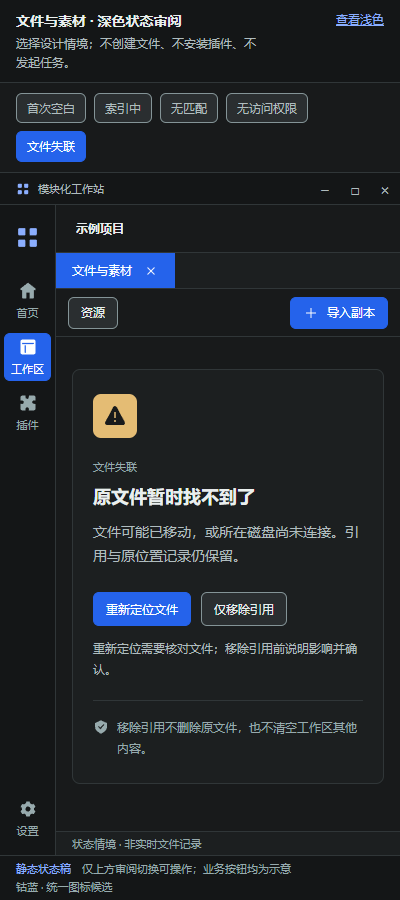
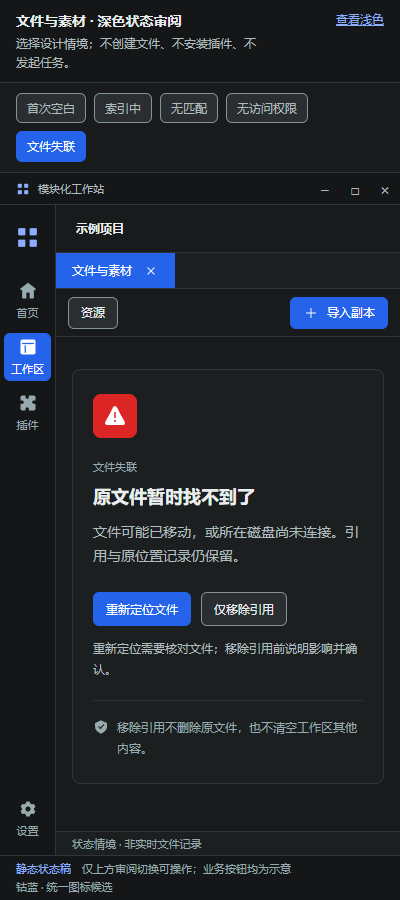
design: use red filled warning indicators per owner feedback

Changed region(s): [[0.21, 0.4356, 0.36, 0.4978]]

diff --git a/docs/design/d2-theme-review.html b/docs/design/d2-theme-review.html
@@ -2,6 +2,7 @@
  *{box-sizing:border-box}body{margin:0;padding:24px;background:#f5f6f6;color:#1e2b34;font:14px/1.6 "Segoe UI","Microsoft YaHei UI",sans-serif}main{max-width:1920px;margin:auto}h1{font-size:24px;margin:0 0 8px}p{color:#526970;margin:0 0 20px}.page-choice{position:absolute;opacity:0;width:1px;height:1px}label{display:inline-block;padding:8px 16px;margin:0 8px 12px 0;border:1px solid #63767e;border-radius:6px;cursor:pointer;background:white}input:focus-visible+label{outline:2px solid #2563eb;outline-offset:3px}input:checked+label{background:#e6eeff;border-color:#2563eb;color:#1d4ed8}.page{display:none}h2{font-size:18px;margin:16px 0}.compare{display:grid;grid-template-columns:1fr 1fr;gap:20px}figure{min-width:0;margin:0}figcaption{font-weight:600;margin-bottom:8px}img{display:block;width:100%;height:auto;border:1px solid #63767e;border-radius:6px}.note{margin-top:20px;font-size:12px}#page-home:checked~.pages .page-home{display:block}#page-assets:checked~.pages .page-assets{display:block}#page-plugins-empty:checked~.pages .page-plugins-empty{display:block}#page-plugins-permissions:checked~.pages .page-plugins-permissions{display:block}@media(max-width:900px){body{padding:16px}.compare{grid-template-columns:1fr}label{padding:6px 10px}}
  </style><style data-solid-visuals>
 /* Owner feedback: filled selections, face-led icons with cut-out detail. */
+:root{--status-alert-fill:#dc2626;--status-alert-foreground:#ffffff}
 .nav-item.active,.tree-item.active,.category.active,.view-toggle span:first-child,.tab,.filter-tabs .selected,
 .state-controls input:checked+label,.page-choice:checked+label{
  background:var(--color-accent-solid,#2563eb);color:var(--color-on-accent,#fff);border-color:var(--color-accent-solid,#2563eb)
@@ -13,7 +14,6 @@
 .asset.selected{border-color:var(--color-accent-solid)}.asset.selected .asset-meta{background:var(--color-accent-solid);color:var(--color-on-accent)}.asset.selected .asset-name,.asset.selected .asset-kind{color:inherit}
 .start-icon,.module-icon,.plugin-logo,.state-emblem{background:var(--color-selected);color:var(--color-accent)}
 .state-emblem{background:var(--color-accent-solid);color:var(--color-on-accent)}
-.state-card.warning .state-emblem{background:var(--color-warning);color:var(--color-bg)}
-.state-card.error .state-emblem{background:var(--color-error);color:var(--color-bg)}
+.state-card.warning .state-emblem,.state-card.error .state-emblem{background:var(--status-alert-fill);color:var(--status-alert-foreground)}
 </style>
 </head><body><main><h1>钴蓝 · 深浅主题对照</h1><p>选择页面并比较两种主题。点击图片可打开完整静态稿；页面中的业务操作尚未实现。</p><input class="page-choice" type="radio" name="page" id="page-home" checked><label for="page-home">首页</label><input class="page-choice" type="radio" name="page" id="page-assets" ><label for="page-assets">文件与素材</label><input class="page-choice" type="radio" name="page" id="page-plugins-empty" ><label for="page-plugins-empty">插件中心</label><input class="page-choice" type="radio" name="page" id="page-plugins-permissions" ><label for="page-plugins-permissions">安装前权限</label><div class="pages"><section class="page page-home"><h2>首页</h2><div class="compare"><figure class="dark"><figcaption>深色 · 1440 × 900</figcaption><a href="d2-home-dark.html"><img src="previews/d2-home-dark-1440.png" alt="首页深色静态设计；点击打开源稿"></a></figure><figure class="light"><figcaption>浅色 · 1440 × 900</figcaption><a href="d2-home-light.html"><img src="previews/d2-home-light-1440.png" alt="首页浅色静态设计；点击打开源稿"></a></figure></div></section><section class="page page-assets"><h2>文件与素材</h2><div class="compare"><figure class="dark"><figcaption>深色 · 1440 × 900</figcaption><a href="d2-assets-dark.html"><img src="previews/d2-assets-dark-1440.png" alt="文件与素材深色静态设计；点击打开源稿"></a></figure><figure class="light"><figcaption>浅色 · 1440 × 900</figcaption><a href="d2-assets-light.html"><img src="previews/d2-assets-light-1440.png" alt="文件与素材浅色静态设计；点击打开源稿"></a></figure></div></section><section class="page page-plugins-empty"><h2>插件中心</h2><div class="compare"><figure class="dark"><figcaption>深色 · 1440 × 900</figcaption><a href="d2-plugins-empty-dark.html"><img src="previews/d2-plugins-empty-dark-1440.png" alt="插件中心深色静态设计；点击打开源稿"></a></figure><figure class="light"><figcaption>浅色 · 1440 × 900</figcaption><a href="d2-plugins-empty-light.html"><img src="previews/d2-plugins-empty-light-1440.png" alt="插件中心浅色静态设计；点击打开源稿"></a></figure></div></section><section class="page page-plugins-permissions"><h2>安装前权限</h2><div class="compare"><figure class="dark"><figcaption>深色 · 1440 × 900</figcaption><a href="d2-plugins-permissions-dark.html"><img src="previews/d2-plugins-permissions-dark-1440.png" alt="安装前权限深色静态设计；点击打开源稿"></a></figure><figure class="light"><figcaption>浅色 · 1440 × 900</figcaption><a href="d2-plugins-permissions-light.html"><img src="previews/d2-plugins-permissions-light-1440.png" alt="安装前权限浅色静态设计；点击打开源稿"></a></figure></div></section></div><p class="note">当前用于视觉审阅；窗口示意、文件与插件示例均不代表真实业务状态。浅色稿由 D1 配色和对应深色稿生成；应用程序尚未换装。</p></main></body></html>

diff --git a/docs/design/d2-states-plugins-dark.html b/docs/design/d2-states-plugins-dark.html
@@ -16,7 +16,7 @@
       --color-accent-solid:#2563eb; --color-on-accent:#ffffff;
       --color-selected:#1b2842; --color-selected-border:#8baeff;
       --color-hover:#2d3436; --color-pressed:#374246; --color-focus:#8baeff;
-      --color-success:#89c9b0; --color-warning:#e4bc74; --color-error:#f2a5a5; --color-info:#9cc7eb;
+      --color-success:#89c9b0; --color-warning:#f2a5a5; --color-error:#f2a5a5; --color-info:#9cc7eb;
     }
     *{box-sizing:border-box} html,body{margin:0;min-width:320px;background:var(--color-bg);color:var(--color-text);font-size:14px;line-height:1.57}
     svg.icon{display:block;width:20px;height:20px;fill:none;stroke:currentColor;stroke-width:1.5;stroke-linecap:round;stroke-linejoin:round;flex:none}
@@ -71,6 +71,7 @@ body:has(#state-failed:checked) .s-failed{display:block}
 body:has(#state-incompatible:checked) .s-incompatible{display:block}</style>
 <style data-solid-visuals>
 /* Owner feedback: filled selections, face-led icons with cut-out detail. */
+:root{--status-alert-fill:#dc2626;--status-alert-foreground:#ffffff}
 .nav-item.active,.tree-item.active,.category.active,.view-toggle span:first-child,.tab,.filter-tabs .selected,
 .state-controls input:checked+label,.page-choice:checked+label{
  background:var(--color-accent-solid,#2563eb);color:var(--color-on-accent,#fff);border-color:var(--color-accent-solid,#2563eb)
@@ -82,8 +83,7 @@ body:has(#state-incompatible:checked) .s-incompatible{display:block}</style>
 .asset.selected{border-color:var(--color-accent-solid)}.asset.selected .asset-meta{background:var(--color-accent-solid);color:var(--color-on-accent)}.asset.selected .asset-name,.asset.selected .asset-kind{color:inherit}
 .start-icon,.module-icon,.plugin-logo,.state-emblem{background:var(--color-selected);color:var(--color-accent)}
 .state-emblem{background:var(--color-accent-solid);color:var(--color-on-accent)}
-.state-card.warning .state-emblem{background:var(--color-warning);color:var(--color-bg)}
-.state-card.error .state-emblem{background:var(--color-error);color:var(--color-bg)}
+.state-card.warning .state-emblem,.state-card.error .state-emblem{background:var(--status-alert-fill);color:var(--status-alert-foreground)}
 </style>
 </head>
 <body><header class="review-head"><div><h1>插件中心 · 深色状态审阅</h1><p>选择设计情境；不创建文件、不安装插件、不发起任务。</p></div><a href="d2-states-plugins-light.html">查看浅色</a></header><div class="state-controls" role="group" aria-label="设计情境"><input type="radio" name="state" id="state-empty" checked><label for="state-empty">首次空白</label><input type="radio" name="state" id="state-no-match" ><label for="state-no-match">无匹配</label><input type="radio" name="state" id="state-loading" ><label for="state-loading">检查中</label><input type="radio" name="state" id="state-cancelling" ><label for="state-cancelling">等待取消确认</label><input type="radio" name="state" id="state-failed" ><label for="state-failed">安装失败</label><input type="radio" name="state" id="state-incompatible" ><label for="state-incompatible">版本不兼容</label></div>

diff --git a/docs/design/d2-states-plugins-light.html b/docs/design/d2-states-plugins-light.html
@@ -17,7 +17,7 @@
       --color-accent-solid:#2563eb; --color-on-accent:#ffffff;
       --color-selected:#e6eeff; --color-selected-border:#2563eb;
       --color-hover:#e7edee; --color-pressed:#dce6e8; --color-focus:#2563eb;
-      --color-success:#287265; --color-warning:#835300; --color-error:#b23535; --color-info:#245f95;
+      --color-success:#287265; --color-warning:#b23535; --color-error:#b23535; --color-info:#245f95;
     }
     *{box-sizing:border-box} html,body{margin:0;min-width:320px;background:var(--color-bg);color:var(--color-text);font-size:14px;line-height:1.57}
     svg.icon{display:block;width:20px;height:20px;fill:none;stroke:currentColor;stroke-width:1.5;stroke-linecap:round;stroke-linejoin:round;flex:none}
@@ -72,6 +72,7 @@ body:has(#state-failed:checked) .s-failed{display:block}
 body:has(#state-incompatible:checked) .s-incompatible{display:block}</style>
 <style data-solid-visuals>
 /* Owner feedback: filled selections, face-led icons with cut-out detail. */
+:root{--status-alert-fill:#dc2626;--status-alert-foreground:#ffffff}
 .nav-item.active,.tree-item.active,.category.active,.view-toggle span:first-child,.tab,.filter-tabs .selected,
 .state-controls input:checked+label,.page-choice:checked+label{
  background:var(--color-accent-solid,#2563eb);color:var(--color-on-accent,#fff);border-color:var(--color-accent-solid,#2563eb)
@@ -83,8 +84,7 @@ body:has(#state-incompatible:checked) .s-incompatible{display:block}</style>
 .asset.selected{border-color:var(--color-accent-solid)}.asset.selected .asset-meta{background:var(--color-accent-solid);color:var(--color-on-accent)}.asset.selected .asset-name,.asset.selected .asset-kind{color:inherit}
 .start-icon,.module-icon,.plugin-logo,.state-emblem{background:var(--color-selected);color:var(--color-accent)}
 .state-emblem{background:var(--color-accent-solid);color:var(--color-on-accent)}
-.state-card.warning .state-emblem{background:var(--color-warning);color:var(--color-bg)}
-.state-card.error .state-emblem{background:var(--color-error);color:var(--color-bg)}
+.state-card.warning .state-emblem,.state-card.error .state-emblem{background:var(--status-alert-fill);color:var(--status-alert-foreground)}
 </style>
 </head>
 <body><header class="review-head"><div><h1>插件中心 · 浅色状态审阅</h1><p>选择设计情境；不创建文件、不安装插件、不发起任务。</p></div><a href="d2-states-plugins-dark.html">查看深色</a></header><div class="state-controls" role="group" aria-label="设计情境"><input type="radio" name="state" id="state-empty" checked><label for="state-empty">首次空白</label><input type="radio" name="state" id="state-no-match" ><label for="state-no-match">无匹配</label><input type="radio" name="state" id="state-loading" ><label for="state-loading">检查中</label><input type="radio" name="state" id="state-cancelling" ><label for="state-cancelling">等待取消确认</label><input type="radio" name="state" id="state-failed" ><label for="state-failed">安装失败</label><input type="radio" name="state" id="state-incompatible" ><label for="state-incompatible">版本不兼容</label></div>

diff --git a/docs/design/d2-states-assets-dark.html b/docs/design/d2-states-assets-dark.html
@@ -16,7 +16,7 @@
       --color-accent-solid:#2563eb; --color-on-accent:#ffffff;
       --color-selected:#1b2842; --color-selected-border:#8baeff;
       --color-hover:#2d3436; --color-pressed:#374246; --color-focus:#8baeff;
-      --color-success:#89c9b0; --color-warning:#e4bc74; --color-error:#f2a5a5; --color-info:#9cc7eb;
+      --color-success:#89c9b0; --color-warning:#f2a5a5; --color-error:#f2a5a5; --color-info:#9cc7eb;
     }
     *{box-sizing:border-box} html,body{margin:0;min-width:320px;background:var(--color-bg);color:var(--color-text);font-size:14px;line-height:1.57}
     svg.icon{display:block;width:20px;height:20px;fill:none;stroke:currentColor;stroke-width:1.5;stroke-linecap:round;stroke-linejoin:round;flex:none}
@@ -73,6 +73,7 @@ body:has(#state-denied:checked) .s-denied{display:block}
 body:has(#state-missing:checked) .s-missing{display:block}</style>
 <style data-solid-visuals>
 /* Owner feedback: filled selections, face-led icons with cut-out detail. */
+:root{--status-alert-fill:#dc2626;--status-alert-foreground:#ffffff}
 .nav-item.active,.tree-item.active,.category.active,.view-toggle span:first-child,.tab,.filter-tabs .selected,
 .state-controls input:checked+label,.page-choice:checked+label{
  background:var(--color-accent-solid,#2563eb);color:var(--color-on-accent,#fff);border-color:var(--color-accent-solid,#2563eb)
@@ -84,8 +85,7 @@ body:has(#state-missing:checked) .s-missing{display:block}</style>
 .asset.selected{border-color:var(--color-accent-solid)}.asset.selected .asset-meta{background:var(--color-accent-solid);color:var(--color-on-accent)}.asset.selected .asset-name,.asset.selected .asset-kind{color:inherit}
 .start-icon,.module-icon,.plugin-logo,.state-emblem{background:var(--color-selected);color:var(--color-accent)}
 .state-emblem{background:var(--color-accent-solid);color:var(--color-on-accent)}
-.state-card.warning .state-emblem{background:var(--color-warning);color:var(--color-bg)}
-.state-card.error .state-emblem{background:var(--color-error);color:var(--color-bg)}
+.state-card.warning .state-emblem,.state-card.error .state-emblem{background:var(--status-alert-fill);color:var(--status-alert-foreground)}
 </style>
 </head>
 <body><header class="review-head"><div><h1>文件与素材 · 深色状态审阅</h1><p>选择设计情境；不创建文件、不安装插件、不发起任务。</p></div><a href="d2-states-assets-light.html">查看浅色</a></header><div class="state-controls" role="group" aria-label="设计情境"><input type="radio" name="state" id="state-empty" checked><label for="state-empty">首次空白</label><input type="radio" name="state" id="state-loading" ><label for="state-loading">索引中</label><input type="radio" name="state" id="state-no-match" ><label for="state-no-match">无匹配</label><input type="radio" name="state" id="state-denied" ><label for="state-denied">无访问权限</label><input type="radio" name="state" id="state-missing" ><label for="state-missing">文件失联</label></div>

diff --git a/docs/design/d2-states-assets-light.html b/docs/design/d2-states-assets-light.html
@@ -17,7 +17,7 @@
       --color-accent-solid:#2563eb; --color-on-accent:#ffffff;
       --color-selected:#e6eeff; --color-selected-border:#2563eb;
       --color-hover:#e7edee; --color-pressed:#dce6e8; --color-focus:#2563eb;
-      --color-success:#287265; --color-warning:#835300; --color-error:#b23535; --color-info:#245f95;
+      --color-success:#287265; --color-warning:#b23535; --color-error:#b23535; --color-info:#245f95;
     }
     *{box-sizing:border-box} html,body{margin:0;min-width:320px;background:var(--color-bg);color:var(--color-text);font-size:14px;line-height:1.57}
     svg.icon{display:block;width:20px;height:20px;fill:none;stroke:currentColor;stroke-width:1.5;stroke-linecap:round;stroke-linejoin:round;flex:none}
@@ -74,6 +74,7 @@ body:has(#state-denied:checked) .s-denied{display:block}
 body:has(#state-missing:checked) .s-missing{display:block}</style>
 <style data-solid-visuals>
 /* Owner feedback: filled selections, face-led icons with cut-out detail. */
+:root{--status-alert-fill:#dc2626;--status-alert-foreground:#ffffff}
 .nav-item.active,.tree-item.active,.category.active,.view-toggle span:first-child,.tab,.filter-tabs .selected,
 .state-controls input:checked+label,.page-choice:checked+label{
  background:var(--color-accent-solid,#2563eb);color:var(--color-on-accent,#fff);border-color:var(--color-accent-solid,#2563eb)
@@ -85,8 +86,7 @@ body:has(#state-missing:checked) .s-missing{display:block}</style>
 .asset.selected{border-color:var(--color-accent-solid)}.asset.selected .asset-meta{background:var(--color-accent-solid);color:var(--color-on-accent)}.asset.selected .asset-name,.asset.selected .asset-kind{color:inherit}
 .start-icon,.module-icon,.plugin-logo,.state-emblem{background:var(--color-selected);color:var(--color-accent)}
 .state-emblem{background:var(--color-accent-solid);color:var(--color-on-accent)}
-.state-card.warning .state-emblem{background:var(--color-warning);color:var(--color-bg)}
-.state-card.error .state-emblem{background:var(--color-error);color:var(--color-bg)}
+.state-card.warning .state-emblem,.state-card.error .state-emblem{background:var(--status-alert-fill);color:var(--status-alert-foreground)}
 </style>
 </head>
 <body><header class="review-head"><div><h1>文件与素材 · 浅色状态审阅</h1><p>选择设计情境；不创建文件、不安装插件、不发起任务。</p></div><a href="d2-states-assets-dark.html">查看深色</a></header><div class="state-controls" role="group" aria-label="设计情境"><input type="radio" name="state" id="state-empty" checked><label for="state-empty">首次空白</label><input type="radio" name="state" id="state-loading" ><label for="state-loading">索引中</label><input type="radio" name="state" id="state-no-match" ><label for="state-no-match">无匹配</label><input type="radio" name="state" id="state-denied" ><label for="state-denied">无访问权限</label><input type="radio" name="state" id="state-missing" ><label for="state-missing">文件失联</label></div>

diff --git a/docs/design/d2-states-home-dark.html b/docs/design/d2-states-home-dark.html
@@ -17,7 +17,7 @@
       --color-accent-solid: #2563eb; --color-on-accent: #ffffff;
       --color-selected: #1b2842; --color-selected-border: #8baeff;
       --color-hover: #2d3436; --color-pressed: #374246; --color-focus: #8baeff;
-      --color-success: #89c9b0; --color-warning: #e4bc74; --color-error: #f2a5a5; --color-info: #9cc7eb;
+      --color-success: #89c9b0; --color-warning: #f2a5a5; --color-error: #f2a5a5; --color-info: #9cc7eb;
       --space-1: 4px; --space-2: 8px; --space-3: 12px; --space-4: 16px;
       --space-5: 20px; --space-6: 24px; --space-8: 32px;
       --radius-sm: 4px; --radius-md: 6px; --radius-lg: 8px;
@@ -111,6 +111,7 @@ body:has(#state-loading:checked) .s-loading{display:flex}
 body:has(#state-failed:checked) .s-failed{display:flex}</style>
 <style data-solid-visuals>
 /* Owner feedback: filled selections, face-led icons with cut-out detail. */
+:root{--status-alert-fill:#dc2626;--status-alert-foreground:#ffffff}
 .nav-item.active,.tree-item.active,.category.active,.view-toggle span:first-child,.tab,.filter-tabs .selected,
 .state-controls input:checked+label,.page-choice:checked+label{
  background:var(--color-accent-solid,#2563eb);color:var(--color-on-accent,#fff);border-color:var(--color-accent-solid,#2563eb)
@@ -122,8 +123,7 @@ body:has(#state-failed:checked) .s-failed{display:flex}</style>
 .asset.selected{border-color:var(--color-accent-solid)}.asset.selected .asset-meta{background:var(--color-accent-solid);color:var(--color-on-accent)}.asset.selected .asset-name,.asset.selected .asset-kind{color:inherit}
 .start-icon,.module-icon,.plugin-logo,.state-emblem{background:var(--color-selected);color:var(--color-accent)}
 .state-emblem{background:var(--color-accent-solid);color:var(--color-on-accent)}
-.state-card.warning .state-emblem{background:var(--color-warning);color:var(--color-bg)}
-.state-card.error .state-emblem{background:var(--color-error);color:var(--color-bg)}
+.state-card.warning .state-emblem,.state-card.error .state-emblem{background:var(--status-alert-fill);color:var(--status-alert-foreground)}
 </style>
 </head>
 <body><header class="review-head"><div><h1>首页 · 深色状态审阅</h1><p>选择设计情境；不创建文件、不安装插件、不发起任务。</p></div><a href="d2-states-home-light.html">查看浅色</a></header><div class="state-controls" role="group" aria-label="设计情境"><input type="radio" name="state" id="state-empty" checked><label for="state-empty">首次空白</label><input type="radio" name="state" id="state-loading" ><label for="state-loading">打开中</label><input type="radio" name="state" id="state-failed" ><label for="state-failed">打开失败</label></div>

diff --git a/docs/design/d2-states-home-light.html b/docs/design/d2-states-home-light.html
@@ -18,7 +18,7 @@
       --color-accent-solid: #2563eb; --color-on-accent: #ffffff;
       --color-selected: #e6eeff; --color-selected-border: #2563eb;
       --color-hover: #e7edee; --color-pressed: #dce6e8; --color-focus: #2563eb;
-      --color-success: #287265; --color-warning: #835300; --color-error: #b23535; --color-info: #245f95;
+      --color-success: #287265; --color-warning: #b23535; --color-error: #b23535; --color-info: #245f95;
       --space-1: 4px; --space-2: 8px; --space-3: 12px; --space-4: 16px;
       --space-5: 20px; --space-6: 24px; --space-8: 32px;
       --radius-sm: 4px; --radius-md: 6px; --radius-lg: 8px;
@@ -112,6 +112,7 @@ body:has(#state-loading:checked) .s-loading{display:flex}
 body:has(#state-failed:checked) .s-failed{display:flex}</style>
 <style data-solid-visuals>
 /* Owner feedback: filled selections, face-led icons with cut-out detail. */
+:root{--status-alert-fill:#dc2626;--status-alert-foreground:#ffffff}
 .nav-item.active,.tree-item.active,.category.active,.view-toggle span:first-child,.tab,.filter-tabs .selected,
 .state-controls input:checked+label,.page-choice:checked+label{
  background:var(--color-accent-solid,#2563eb);color:var(--color-on-accent,#fff);border-color:var(--color-accent-solid,#2563eb)
@@ -123,8 +124,7 @@ body:has(#state-failed:checked) .s-failed{display:flex}</style>
 .asset.selected{border-color:var(--color-accent-solid)}.asset.selected .asset-meta{background:var(--color-accent-solid);color:var(--color-on-accent)}.asset.selected .asset-name,.asset.selected .asset-kind{color:inherit}
 .start-icon,.module-icon,.plugin-logo,.state-emblem{background:var(--color-selected);color:var(--color-accent)}
 .state-emblem{background:var(--color-accent-solid);color:var(--color-on-accent)}
-.state-card.warning .state-emblem{background:var(--color-warning);color:var(--color-bg)}
-.state-card.error .state-emblem{background:var(--color-error);color:var(--color-bg)}
+.state-card.warning .state-emblem,.state-card.error .state-emblem{background:var(--status-alert-fill);color:var(--status-alert-foreground)}
 </style>
 </head>
 <body><header class="review-head"><div><h1>首页 · 浅色状态审阅</h1><p>选择设计情境；不创建文件、不安装插件、不发起任务。</p></div><a href="d2-states-home-dark.html">查看深色</a></header><div class="state-controls" role="group" aria-label="设计情境"><input type="radio" name="state" id="state-empty" checked><label for="state-empty">首次空白</label><input type="radio" name="state" id="state-loading" ><label for="state-loading">打开中</label><input type="radio" name="state" id="state-failed" ><label for="state-failed">打开失败</label></div>

diff --git a/docs/design/d2-assets-dark.html b/docs/design/d2-assets-dark.html
@@ -16,7 +16,7 @@
       --color-accent-solid:#2563eb; --color-on-accent:#ffffff;
       --color-selected:#1b2842; --color-selected-border:#8baeff;
       --color-hover:#2d3436; --color-pressed:#374246; --color-focus:#8baeff;
-      --color-success:#89c9b0; --color-warning:#e4bc74; --color-error:#f2a5a5; --color-info:#9cc7eb;
+      --color-success:#89c9b0; --color-warning:#f2a5a5; --color-error:#f2a5a5; --color-info:#9cc7eb;
     }
     *{box-sizing:border-box} html,body{margin:0;min-width:320px;background:var(--color-bg);color:var(--color-text);font-size:14px;line-height:1.57}
     svg.icon{display:block;width:20px;height:20px;fill:none;stroke:currentColor;stroke-width:1.5;stroke-linecap:round;stroke-linejoin:round;flex:none}
@@ -50,6 +50,7 @@
   </style>
 <style data-solid-visuals>
 /* Owner feedback: filled selections, face-led icons with cut-out detail. */
+:root{--status-alert-fill:#dc2626;--status-alert-foreground:#ffffff}
 .nav-item.active,.tree-item.active,.category.active,.view-toggle span:first-child,.tab,.filter-tabs .selected,
 .state-controls input:checked+label,.page-choice:checked+label{
  background:var(--color-accent-solid,#2563eb);color:var(--color-on-accent,#fff);border-color:var(--color-accent-solid,#2563eb)
@@ -61,8 +62,7 @@
 .asset.selected{border-color:var(--color-accent-solid)}.asset.selected .asset-meta{background:var(--color-accent-solid);color:var(--color-on-accent)}.asset.selected .asset-name,.asset.selected .asset-kind{color:inherit}
 .start-icon,.module-icon,.plugin-logo,.state-emblem{background:var(--color-selected);color:var(--color-accent)}
 .state-emblem{background:var(--color-accent-solid);color:var(--color-on-accent)}
-.state-card.warning .state-emblem{background:var(--color-warning);color:var(--color-bg)}
-.state-card.error .state-emblem{background:var(--color-error);color:var(--color-bg)}
+.state-card.warning .state-emblem,.state-card.error .state-emblem{background:var(--status-alert-fill);color:var(--status-alert-foreground)}
 </style>
 </head>
 <body>

diff --git a/docs/design/d2-assets-light.html b/docs/design/d2-assets-light.html
@@ -17,7 +17,7 @@
       --color-accent-solid:#2563eb; --color-on-accent:#ffffff;
       --color-selected:#e6eeff; --color-selected-border:#2563eb;
       --color-hover:#e7edee; --color-pressed:#dce6e8; --color-focus:#2563eb;
-      --color-success:#287265; --color-warning:#835300; --color-error:#b23535; --color-info:#245f95;
+      --color-success:#287265; --color-warning:#b23535; --color-error:#b23535; --color-info:#245f95;
     }
     *{box-sizing:border-box} html,body{margin:0;min-width:320px;background:var(--color-bg);color:var(--color-text);font-size:14px;line-height:1.57}
     svg.icon{display:block;width:20px;height:20px;fill:none;stroke:currentColor;stroke-width:1.5;stroke-linecap:round;stroke-linejoin:round;flex:none}
@@ -51,6 +51,7 @@
   </style>
 <style data-solid-visuals>
 /* Owner feedback: filled selections, face-led icons with cut-out detail. */
+:root{--status-alert-fill:#dc2626;--status-alert-foreground:#ffffff}
 .nav-item.active,.tree-item.active,.category.active,.view-toggle span:first-child,.tab,.filter-tabs .selected,
 .state-controls input:checked+label,.page-choice:checked+label{
  background:var(--color-accent-solid,#2563eb);color:var(--color-on-accent,#fff);border-color:var(--color-accent-solid,#2563eb)
@@ -62,8 +63,7 @@
 .asset.selected{border-color:var(--color-accent-solid)}.asset.selected .asset-meta{background:var(--color-accent-solid);color:var(--color-on-accent)}.asset.selected .asset-name,.asset.selected .asset-kind{color:inherit}
 .start-icon,.module-icon,.plugin-logo,.state-emblem{background:var(--color-selected);color:var(--color-accent)}
 .state-emblem{background:var(--color-accent-solid);color:var(--color-on-accent)}
-.state-card.warning .state-emblem{background:var(--color-warning);color:var(--color-bg)}
-.state-card.error .state-emblem{background:var(--color-error);color:var(--color-bg)}
+.state-card.warning .state-emblem,.state-card.error .state-emblem{background:var(--status-alert-fill);color:var(--status-alert-foreground)}
 </style>
 </head>
 <body>

diff --git a/docs/design/d2-plugins-empty-dark.html b/docs/design/d2-plugins-empty-dark.html
@@ -16,7 +16,7 @@
       --color-accent-solid:#2563eb; --color-on-accent:#ffffff;
       --color-selected:#1b2842; --color-selected-border:#8baeff;
       --color-hover:#2d3436; --color-pressed:#374246; --color-focus:#8baeff;
-      --color-success:#89c9b0; --color-warning:#e4bc74; --color-error:#f2a5a5; --color-info:#9cc7eb;
+      --color-success:#89c9b0; --color-warning:#f2a5a5; --color-error:#f2a5a5; --color-info:#9cc7eb;
     }
     *{box-sizing:border-box} html,body{margin:0;min-width:320px;background:var(--color-bg);color:var(--color-text);font-size:14px;line-height:1.57}
     svg.icon{display:block;width:20px;height:20px;fill:none;stroke:currentColor;stroke-width:1.5;stroke-linecap:round;stroke-linejoin:round;flex:none}
@@ -47,6 +47,7 @@
   </style>
 <style data-solid-visuals>
 /* Owner feedback: filled selections, face-led icons with cut-out detail. */
+:root{--status-alert-fill:#dc2626;--status-alert-foreground:#ffffff}
 .nav-item.active,.tree-item.active,.category.active,.view-toggle span:first-child,.tab,.filter-tabs .selected,
 .state-controls input:checked+label,.page-choice:checked+label{
  background:var(--color-accent-solid,#2563eb);color:var(--color-on-accent,#fff);border-color:var(--color-accent-solid,#2563eb)
@@ -58,8 +59,7 @@
 .asset.selected{border-color:var(--color-accent-solid)}.asset.selected .asset-meta{background:var(--color-accent-solid);color:var(--color-on-accent)}.asset.selected .asset-name,.asset.selected .asset-kind{color:inherit}
 .start-icon,.module-icon,.plugin-logo,.state-emblem{background:var(--color-selected);color:var(--color-accent)}
 .state-emblem{background:var(--color-accent-solid);color:var(--color-on-accent)}
-.state-card.warning .state-emblem{background:var(--color-warning);color:var(--color-bg)}
-.state-card.error .state-emblem{background:var(--color-error);color:var(--color-bg)}
+.state-card.warning .state-emblem,.state-card.error .state-emblem{background:var(--status-alert-fill);color:var(--status-alert-foreground)}
 </style>
 </head>
 <body>

diff --git a/docs/design/d2-plugins-empty-light.html b/docs/design/d2-plugins-empty-light.html
@@ -17,7 +17,7 @@
       --color-accent-solid:#2563eb; --color-on-accent:#ffffff;
       --color-selected:#e6eeff; --color-selected-border:#2563eb;
       --color-hover:#e7edee; --color-pressed:#dce6e8; --color-focus:#2563eb;
-      --color-success:#287265; --color-warning:#835300; --color-error:#b23535; --color-info:#245f95;
+      --color-success:#287265; --color-warning:#b23535; --color-error:#b23535; --color-info:#245f95;
     }
     *{box-sizing:border-box} html,body{margin:0;min-width:320px;background:var(--color-bg);color:var(--color-text);font-size:14px;line-height:1.57}
     svg.icon{display:block;width:20px;height:20px;fill:none;stroke:currentColor;stroke-width:1.5;stroke-linecap:round;stroke-linejoin:round;flex:none}
@@ -48,6 +48,7 @@
   </style>
 <style data-solid-visuals>
 /* Owner feedback: filled selections, face-led icons with cut-out detail. */
+:root{--status-alert-fill:#dc2626;--status-alert-foreground:#ffffff}
 .nav-item.active,.tree-item.active,.category.active,.view-toggle span:first-child,.tab,.filter-tabs .selected,
 .state-controls input:checked+label,.page-choice:checked+label{
  background:var(--color-accent-solid,#2563eb);color:var(--color-on-accent,#fff);border-color:var(--color-accent-solid,#2563eb)
@@ -59,8 +60,7 @@
 .asset.selected{border-color:var(--color-accent-solid)}.asset.selected .asset-meta{background:var(--color-accent-solid);color:var(--color-on-accent)}.asset.selected .asset-name,.asset.selected .asset-kind{color:inherit}
 .start-icon,.module-icon,.plugin-logo,.state-emblem{background:var(--color-selected);color:var(--color-accent)}
 .state-emblem{background:var(--color-accent-solid);color:var(--color-on-accent)}
-.state-card.warning .state-emblem{background:var(--color-warning);color:var(--color-bg)}
-.state-card.error .state-emblem{background:var(--color-error);color:var(--color-bg)}
+.state-card.warning .state-emblem,.state-card.error .state-emblem{background:var(--status-alert-fill);color:var(--status-alert-foreground)}
 </style>
 </head>
 <body>

diff --git a/docs/design/d2-plugins-permissions-dark.html b/docs/design/d2-plugins-permissions-dark.html
@@ -16,7 +16,7 @@
       --color-accent-solid:#2563eb; --color-on-accent:#ffffff;
       --color-selected:#1b2842; --color-selected-border:#8baeff;
       --color-hover:#2d3436; --color-pressed:#374246; --color-focus:#8baeff;
-      --color-success:#89c9b0; --color-warning:#e4bc74; --color-error:#f2a5a5; --color-info:#9cc7eb;
+      --color-success:#89c9b0; --color-warning:#f2a5a5; --color-error:#f2a5a5; --color-info:#9cc7eb;
     }
     *{box-sizing:border-box} html,body{margin:0;min-width:320px;background:var(--color-bg);color:var(--color-text);font-size:14px;line-height:1.57}
     svg.icon{display:block;width:20px;height:20px;fill:none;stroke:currentColor;stroke-width:1.5;stroke-linecap:round;stroke-linejoin:round;flex:none}
@@ -47,6 +47,7 @@
   </style>
 <style data-solid-visuals>
 /* Owner feedback: filled selections, face-led icons with cut-out detail. */
+:root{--status-alert-fill:#dc2626;--status-alert-foreground:#ffffff}
 .nav-item.active,.tree-item.active,.category.active,.view-toggle span:first-child,.tab,.filter-tabs .selected,
 .state-controls input:checked+label,.page-choice:checked+label{
  background:var(--color-accent-solid,#2563eb);color:var(--color-on-accent,#fff);border-color:var(--color-accent-solid,#2563eb)
@@ -58,8 +59,7 @@
 .asset.selected{border-color:var(--color-accent-solid)}.asset.selected .asset-meta{background:var(--color-accent-solid);color:var(--color-on-accent)}.asset.selected .asset-name,.asset.selected .asset-kind{color:inherit}
 .start-icon,.module-icon,.plugin-logo,.state-emblem{background:var(--color-selected);color:var(--color-accent)}
 .state-emblem{background:var(--color-accent-solid);color:var(--color-on-accent)}
-.state-card.warning .state-emblem{background:var(--color-warning);color:var(--color-bg)}
-.state-card.error .state-emblem{background:var(--color-error);color:var(--color-bg)}
+.state-card.warning .state-emblem,.state-card.error .state-emblem{background:var(--status-alert-fill);color:var(--status-alert-foreground)}
 </style>
 </head>
 <body>
